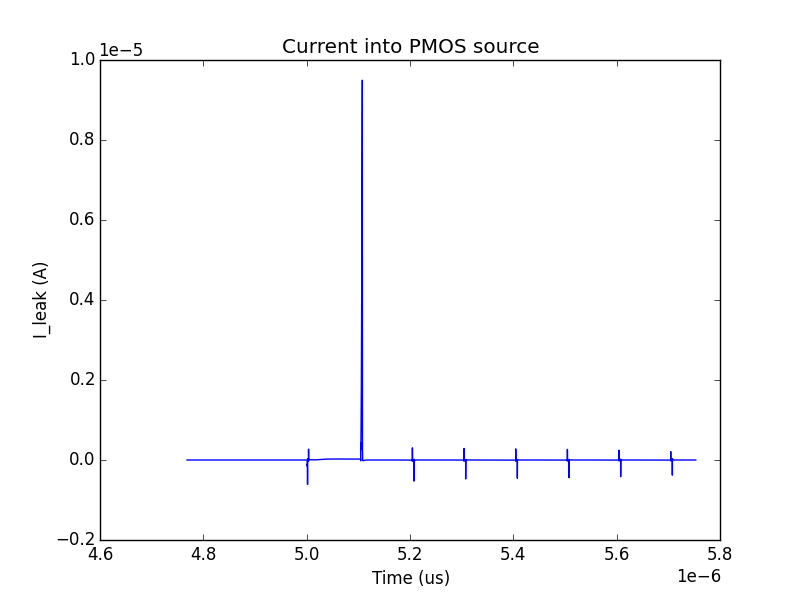
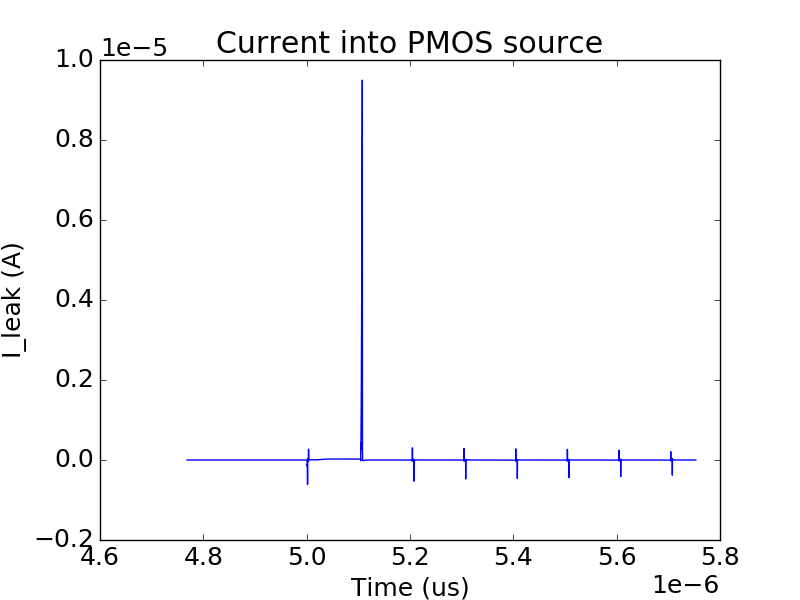
Make plot fonts bigger

diff --git a/presentation-3.tex b/presentation-3.tex
@@ -377,7 +377,7 @@ During our final stages of design, we ran into some major issues that either aro
 \end{figure}
 \end{frame}
 
-\begin{frame}{ADC- Charge Pump}
+\begin{frame}{ADC - Charge Pump}
 \begin{block}{Charge Pump Topolgy}
 \begin{itemize}
 \item Using a charge pump to reduce the $V_{GS}$ of the Load PMOS

diff --git a/ADC_data/Version3/plot.py b/ADC_data/Version3/plot.py
@@ -2,6 +2,9 @@ import numpy as np
 import matplotlib.pyplot as plt
 from matplotlib.ticker import FormatStrFormatter
 
+import matplotlib
+matplotlib.rcParams.update({'font.size': 18})
+
 t, vip, _, _, t1, il, _, vbody  = np.loadtxt("leakage_current.csv", delimiter=',', skiprows=1,unpack=True)
 
 print(len(t))

diff --git a/ADC_data/Version2/plot.py b/ADC_data/Version2/plot.py
@@ -2,6 +2,9 @@ import numpy as np
 import matplotlib.pyplot as plt
 from matplotlib.ticker import FormatStrFormatter
 
+import matplotlib
+matplotlib.rcParams.update({'font.size': 18})
+
 t, vip, t1, il  = np.loadtxt("leakage_current.csv", delimiter=',', skiprows=1,unpack=True)
 
 print(len(t))
